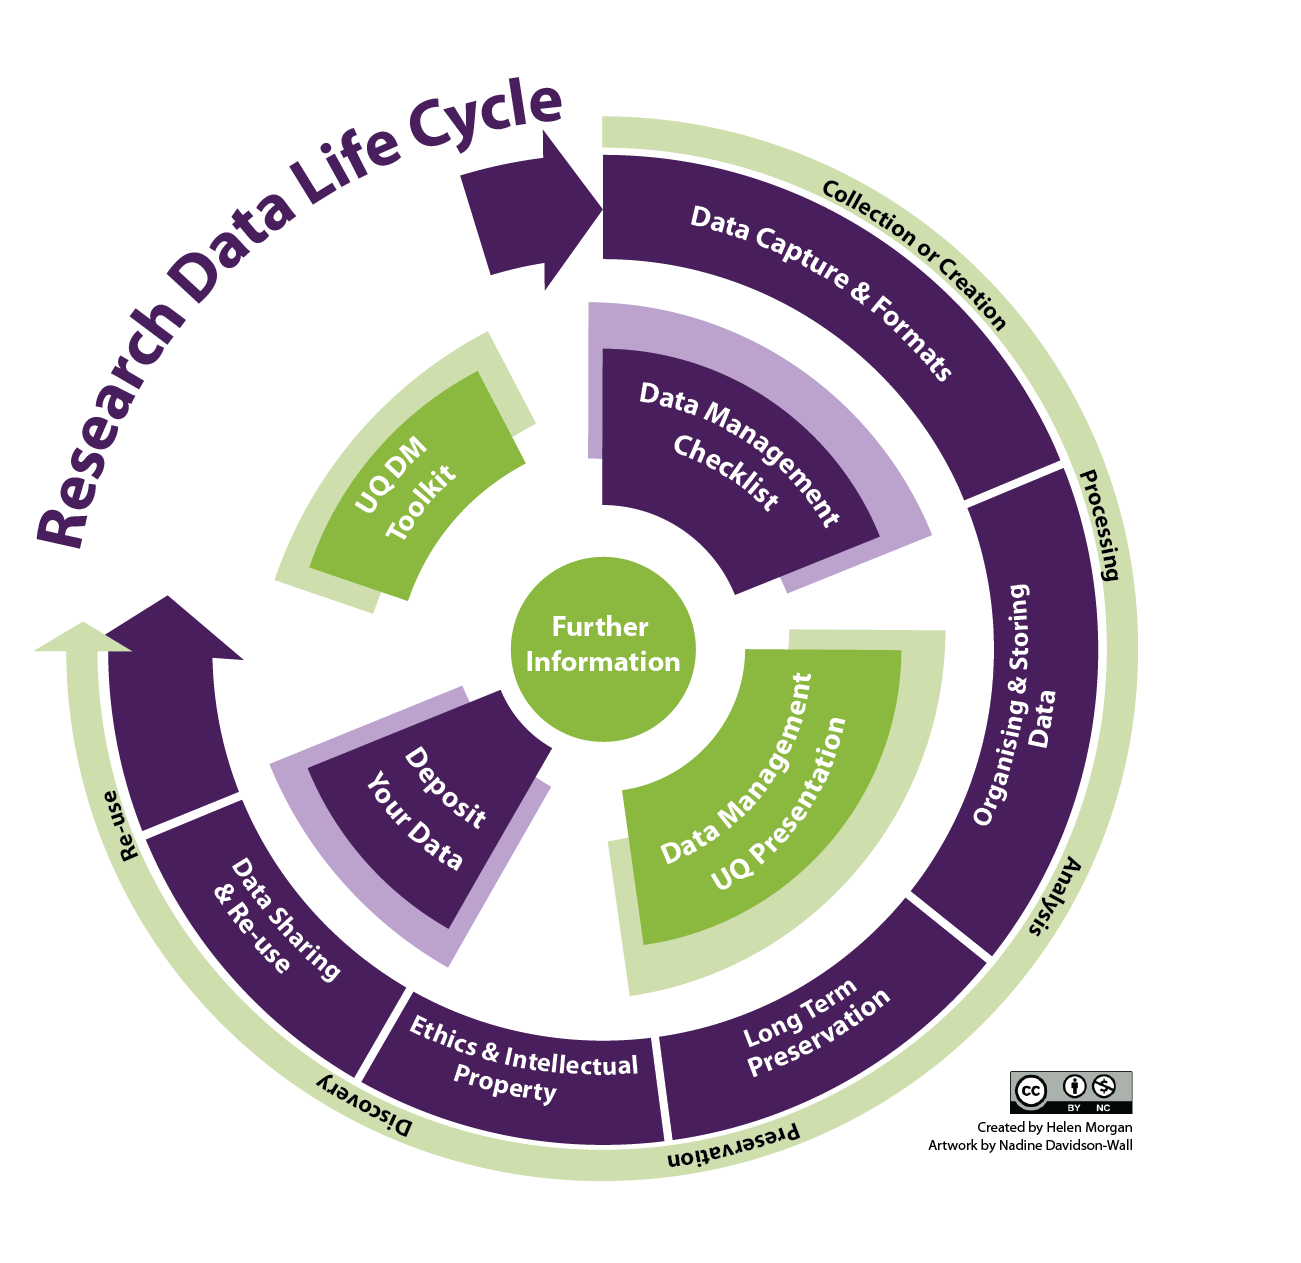
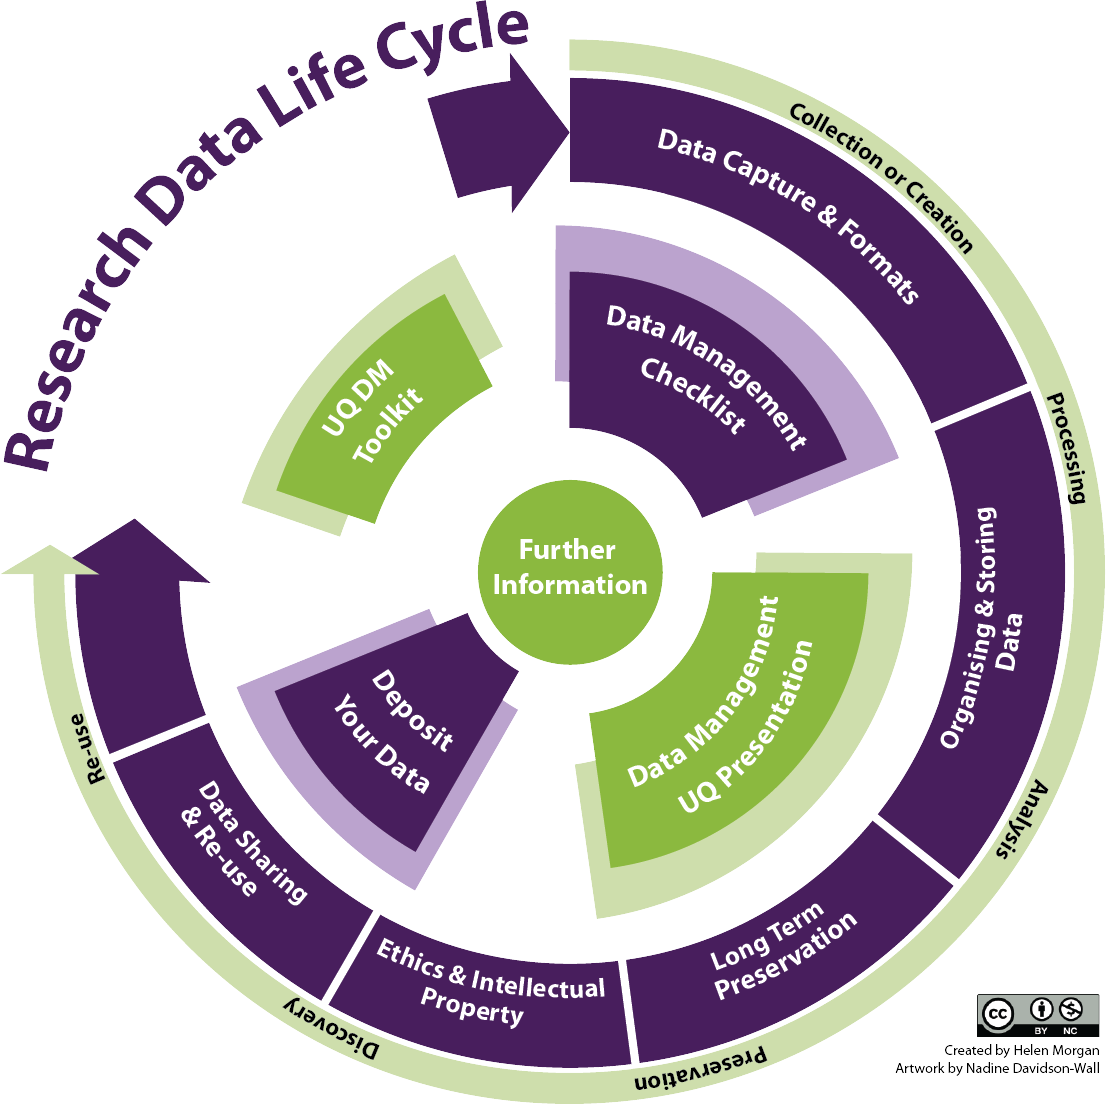
real image fix

diff --git a/UM_DataCurationWorkshops/session01/slides01.html b/UM_DataCurationWorkshops/session01/slides01.html
@@ -79,7 +79,7 @@
                 </section>
 
                 <section>
-                    <img src="../../images/UCDResearch_Life_Cycle.png">
+                    <img src="../../images/UCDResearch_Life_Cycle.png" style="max-height: 550px">
                     <div style="position: absolute; bottom: -30px; right: 0px; width: 400px; text-align: left; font-size: 50%; line-heigth: normal;"><a target="_blank" href="http://libguides.ucd.ie/data">http://libguides.ucd.ie/data</a></div>
                 </section>
 

diff --git a/stylesheets/overrides.css b/stylesheets/overrides.css
@@ -1,5 +1,5 @@
 img {
-   max-height: 70% !important;
+   /* max-height: 70% !important; */
    max-width: 70% !important;
    border: none !important;
    box-shadow: none !important;
